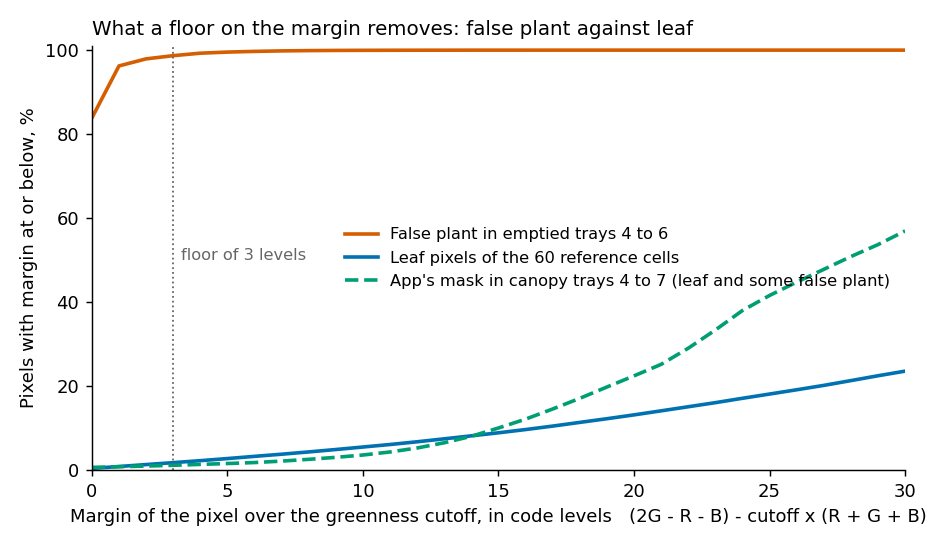
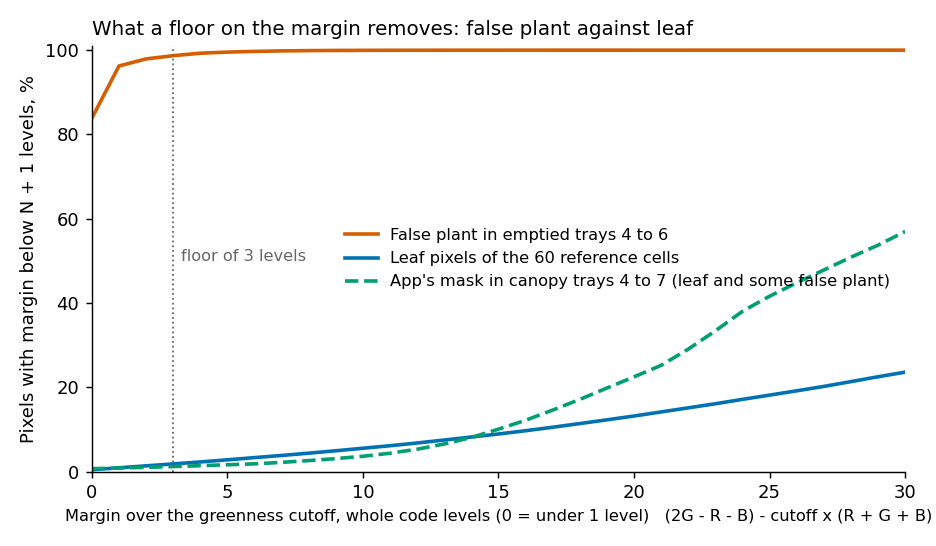
Log 46: corrections from review (canopy range, margin binning, rule A loss, counts, gain, scripts) (#497)

diff --git a/experiments/497-dark-pots/code/analyze.py b/experiments/497-dark-pots/code/analyze.py
@@ -55,7 +55,26 @@ def table(form):
                             ref_iou=iou, ref_ratio=pool, sigma_ref_median=st.median(float(x["sigma_b"]) for x in rr)))
     return out
 
+def ref_groups():
+    """Mean IoU and pooled area ratio of the reference cells by group (all 60, the 38 corrected by Aaron, 30
+    production, 30 development), with no rule, floor N = 1 to 5 and k = 1 to 3, rule B. Writes data/ref_iou_by_group.csv."""
+    ti = {r["id"]: r for r in csv.DictReader(open(TRUTH))}
+    ref = list(csv.DictReader(open(D + "/sweep_ref_B.csv")))
+    groups = {"all 60": lambda x: True, "38 corrected by Aaron": lambda x: ti[x["id"]]["truth_source"].startswith("corrected"),
+              "30 production": lambda x: x["rig"] == "prod", "30 development": lambda x: x["rig"] == "dev"}
+    out = []
+    for g, f in groups.items():
+        for m, lev in [("app", "-")] + [("c", str(i)) for i in range(1, 6)] + [("b", str(i)) for i in range(1, 4)]:
+            rr = [x for x in ref if x["method"] == m and x["level"] == lev and f(x)]
+            nz = [x for x in rr if int(x["truth_px"])]
+            out.append(dict(group=g, method=m, level=lev, cells=len(rr), mean_iou=round(st.mean(float(x["iou"]) for x in rr), 4),
+                            area_ratio=round(sum(int(x["px"]) for x in nz) / sum(int(x["truth_px"]) for x in nz), 3)))
+    with open(D + "/ref_iou_by_group.csv", "w", newline="") as fh:
+        w = csv.DictWriter(fh, fieldnames=list(out[0])); w.writeheader(); w.writerows(out)
+
+
 if __name__ == "__main__":
+    ref_groups()
     allrows = []
     for form in "AB":
         t = table(form); allrows += t

diff --git a/experiments/497-dark-pots/code/plots.py b/experiments/497-dark-pots/code/plots.py
@@ -20,8 +20,8 @@ for g, (lab, col, ls) in names.items():
     tot = sum(h[g].values()); y = [100 * sum(v for k, v in h[g].items() if k <= x) / tot for x in xs]
     ax.plot(xs, y, color=col, ls=ls, lw=2, label=lab)
 ax.axvline(3, color=GREY, lw=1, ls=":"); ax.text(3.3, 50, "floor of 3 levels", color=GREY, fontsize=9)
-ax.set_xlabel("Margin of the pixel over the greenness cutoff, in code levels   (2G - R - B) - cutoff x (R + G + B)")
-ax.set_ylabel("Pixels with margin at or below, %"); ax.set_ylim(0, 101); ax.set_xlim(0, 30)
+ax.set_xlabel("Margin over the greenness cutoff, whole code levels (0 = under 1 level)   (2G - R - B) - cutoff x (R + G + B)", fontsize=9)
+ax.set_ylabel("Pixels with margin below N + 1 levels, %"); ax.set_ylim(0, 101); ax.set_xlim(0, 30)
 ax.legend(frameon=False, loc="center right", fontsize=9)
 ax.set_title("What a floor on the margin removes: false plant against leaf", loc="left", fontsize=11)
 fig.tight_layout(); fig.savefig(f"{OUT}/margin-cdf.png", dpi=130); plt.close(fig)

diff --git a/experiments/497-dark-pots/code/rule.py b/experiments/497-dark-pots/code/rule.py
@@ -1,7 +1,9 @@
 """Noise-aware rule for grow from leaf cores (metrology log 46, issue #497).
 
 An experiment-side copy of `segmentation.grow_from_cores` with one change: a pixel is a core, and
-is grown into, only if its green exceeds its red by more than `thr` code levels. The soil level and
+is grown into, only if it clears a margin of `thr` code levels. Form "A": its green exceeds its red by
+more than `thr` (`G - R > thr`). Form "B": its greenness numerator clears the cutoff by more than `thr`
+(`(2G - R - B) - cutoff * (R + G + B) > thr`, the core cutoff on cores, the lower cutoff on growth). The soil level and
 lower cutoff are worked out exactly as the app does (the rule does not touch them). With
 `thr=None` the copy gives the app's own mask; `check_copy` shows that on a box.
 Imports the app, never the reverse.

diff --git a/experiments/497-dark-pots/code/dev_rect.py b/experiments/497-dark-pots/code/dev_rect.py
@@ -1,7 +1,7 @@
 """The rule on development photos (JPEG 85, 4:4:4; young seedlings on soil plugs), no tray outlines
 (npec-rig-01 was not asked for any): two fixed rectangles over two trays, whole rectangle as the tray,
 no tag cut-out. Share of the app's mask the rule removes (form B, floor of N levels, and k x sigma_b),
-and the number of mask pixels (log 46.6). Writes data/dev_rect.csv."""
+and the number of mask pixels (log 46.4). Writes data/dev_rect.csv."""
 import csv, sys
 import numpy as np
 sys.path.insert(0, __file__.rsplit("/", 1)[0])

diff --git a/experiments/497-dark-pots/code/target_zone.py b/experiments/497-dark-pots/code/target_zone.py
@@ -1,7 +1,7 @@
 """The green target on tray 10, measured alone (log 46). In the app's mask of each photo, the target is
 what survives an opening with a 201 px square (so the patches of false plant in the dark cells beside
 it, which touch it, are not part of it); the zone is that, widened by 15 px. For each level, the mask
-pixels inside the zone, against the app's. Writes data/target_zone.csv."""
+pixels inside the zone, against the app's. Writes data/target_zone_{FORM}.csv."""
 import csv, glob, json, os, sys
 import cv2
 import numpy as np

diff --git a/experiments/497-dark-pots/code/cell_ratio_tables.py b/experiments/497-dark-pots/code/cell_ratio_tables.py
@@ -15,7 +15,7 @@ for k, v in groups.items():
     print(k, len(v), "cells; with grown>0:", sum(1 for x in v if x["grown"] > 0), "| ratio", pct(r) if r else "-", "| fixed", pct([x["fixed"] for x in v]), "| grown", pct([x["grown"] for x in v]))
 print()
 print("flagged = grown > R x fixed AND grown - fixed >= A mm2")
-for A in (0, 20, 50):
+for A in (0, 20, 50, 100):
     for R in (2, 2.5, 3, 5):
         out = []
         for k, v in groups.items():

diff --git a/docs/metrology-log.md b/docs/metrology-log.md
@@ -11289,7 +11289,7 @@ the tag square is taken from cell A1's corners shrunk from the cell (about 59 mm
 | Experiment 18, emptied trays | 23 Nov 11:00, 12:00, 13:00, 14:00 UTC (4 photos; tray 4 emptied about 11:00, tray 5 about 13:00, tray 6 about 14:00) | trays 4 to 6 once empty (the app's fixed cutoff reads 6 to 54 mm²) |
 | Experiment 18, canopy | 18 Nov 13:00; 20 Nov 13:00, 20:00; 22 Nov 09:00, 13:00, 20:00; 23 Nov 09:00 (7 photos) | trays 4 to 7 with plants (fixed cutoff 7,100 to 14,200 mm²) |
 | Experiment 18, green target | the same 11 photos | tray 10 |
-| Experiment 20 | 24 Nov 08:09, 08:34 (light still changing), 09:04, 09:29, 09:44, 09:59 | tray 10: green target, tag sheet, empty cells |
+| Experiment 20 | 24 Nov 08:09, 08:34 (light still changing, so not counted by the app), 09:04, 09:29, 09:44, 09:59; the sweeps use all 6, the cell readings of 46.8 only the 4 counted | tray 10: green target, tag sheet, empty cells |
 | 60 reference cells (section 33) | the lossless crops with Aaron's truth masks | 30 production, 30 development; the lower cutoff given as the draft's (the whole tray's, from the manifest) |
 | Development, experiment 4 | 23 Nov 12:00 and 20:00, 24 Nov 08:05 (gain 1.5), 10:00; lights off 24 Nov 05:00 (gain 4.0) | two fixed rectangles over two trays of seedlings on soil plugs |
 | Lights-off, experiment 18 | 24 Nov 03:00 and 07:00 | the outlines of trays 4 to 6 as at 23 Nov 14:00 |
@@ -11303,8 +11303,8 @@ experiment 18 left the table on 16 November and have no pots left to read.
 On the 60 reference cells the mean IoU is 0.926 with no rule, **0.551 at `thr = 0`**, 0.505 at 2, 0.449 at
 4, and 0.214 at 12 (method (c)); method (b) is lower still. Rule A leaves out every pixel the lower
 cutoff admits with green not above red (leaf edges, grey pixels joined to a leaf, shaded leaf) and the
-reference masks contain many of them. It does cut the emptied trays to 9 mm² at 2 levels. It fails the
-reference pass number by 0.32 at the smallest value and is not considered further; the numbers are in
+reference masks contain many of them. It does cut the emptied trays to 9 mm² at 2 levels. It loses
+0.375 of IoU on the same cells (0.926 to 0.551) against the 0.005 allowed, and is not considered further; the numbers are in
 `data/summary_levels.csv` (form A).
 
 ### 46.3 Rule B: emptied trays, empty cells, the target
@@ -11325,16 +11325,15 @@ false-plant pixels left; the app's mask has 286,088 px, 11,789 mm², on tray 4 a
 (The tray 10 column covers both experiments' photos: patches in the dark cells that hold no pot or that sit
 beside the target. The target's change is measured on the target alone: what survives an opening of 201 px
 of the app's mask, widened by 15 px, so the patches in the dark cells that touch it are not counted;
-`code/target_zone.py`. With the rule off the target's zone holds 565,000 to 595,000 px.) Method (b), k
+`code/target_zone.py`. With the rule off the target's zone holds 565,000 to 573,000 px.) Method (b), k
 times the photo's own noise: **k = 3 gives 58.8 mm² and 0.91% left** (just inside 60 mm² and 1%); k = 2
 gives 136 mm² and 1.7%, k = 1 gives 1,135 mm² and 10.5%.
 
 *The false plant at a floor of 3.* What it removes is picture 46a, picture 46b and the table above: in
 the emptied tray 4 at 13:00 the app counted 286,088 px and the floor of 3 leaves 1,026 px (42 mm²;
-`figures/46/tray4-emptied-2026-11-23T1300.jpg`). The pixels it counts as plant have a margin of 0 or
-less in 83.8% of the cases (pure black pixels have greenness exactly 0, which is above the lower cutoff,
-and no margin to give), at most 3 levels in 98.7%, at most 8 in 99.9%
-(`figures/46/margin-cdf.png`).
+`figures/46/tray4-emptied-2026-11-23T1300.jpg`). The pixels it counts as plant have a margin of
+under 1 level in 83.8% of the cases, under 4 levels in 98.7% and under 9 in 99.9% (margins are floored to
+whole levels before they are counted; `figures/46/margin-cdf.png`).
 
 ### 46.4 Rule B: the leaves
 
@@ -11347,7 +11346,7 @@ and no margin to give), at most 3 levels in 98.7%, at most 8 in 99.9%
 | 30 production | 0.899 / 0.988 | 0.860 / 0.950 | 0.847 / 0.936 | 0.833 / 0.922 | 0.818 / 0.907 | 0.804 / 0.895 | 0.812 / 0.902 | 0.707 / 0.823 | 0.555 / 0.702 |
 | 30 development | 0.954 / 1.048 | 0.951 / 1.038 | 0.947 / 1.029 | 0.943 / 1.019 | 0.939 / 1.011 | 0.934 / 1.003 | 0.923 / 0.997 | 0.863 / 0.952 | 0.771 / 0.895 |
 
-The mean IoU of 0.926 with no rule is above section 34's 0.874 to 0.879, because these crops are scored with
+(The rows by group come from `code/analyze.py`, written to `data/ref_iou_by_group.csv`.) The mean IoU of 0.926 with no rule is above section 34's 0.874 to 0.879, because these crops are scored with
 the draft's own lower cutoff and 21 of the 60 truth masks are accepted drafts (section 33); the loss is
 therefore taken against the same cells without the rule. **Method (c) loses 0.021 at N = 1 and 0.038 at N = 3
 (0.066 on production's 30 cells), against the 0.005 allowed: it fails at every N from 1.** (Held to an
@@ -11364,7 +11363,7 @@ a plant with dark leaves, of which the floor of 3 removes 11% to 47% of the pixe
 2,536 of 4,961 to 10,562 px). So the upper bound mixes false plant, correctly removed, with a real cost on dark leaves that
 no hand outline measures. On development's seedlings (JPEG 85; `data/dev_rect.csv`) a floor of 3 removes 6.5%
 to 8.3% of the app's mask of one tray (left, 9,200 to 14,800 px) and 1.6% to 2.6% of another (top right,
-99,000 to 112,000 px), the same on the photo at gain 1.5 as on the two at gain 1.0.
+99,000 to 112,000 px), 6.5% and 1.6% on the one photo at gain 1.5 against 7.8% to 8.3% and 2.1% to 2.6% on the two at gain 1.0 (the three photos differ in more than gain, so one photo at 1.5 shows nothing about gain).
 
 ### 46.5 Noise: how it moves with the photo, the gain and the settings
 
@@ -11380,7 +11379,7 @@ of `2G - R - B` (`figures/46/noise-estimate-by-condition.png`):
 | Reference crops, development, 30 | 4.7 to 9.3 |
 
 The estimate follows what is in the trays, not the camera: the same camera at the same gain 1.0 and the same
-JPEG setting gives 0.9 over empty pots and 3.1 over canopy, a factor of 3.4. That is the circularity: the darkest
+JPEG setting gives 0.9 over empty pots and 3.1 over canopy, a factor of 3.4 (about 2.9 to 4.8 from the ranges above, 0.82 to 0.95 against 2.75 to 3.96). That is the circularity: the darkest
 tenth of an emptied tray is the pots themselves, whose noise is not the noise of a leaf's shade. With
 k = 3 the emptied trays are just inside the pass number (a floor of about 2.7 levels) while on canopy photos
 the same k is a floor of 8 to 12 levels.
@@ -11427,17 +11426,17 @@ whether to ask for a minimum area, are Aaron's decisions; none is proposed here.
 | False plant removed, emptied trays at most 60 mm², under 1% left | Yes from N = 2 | Yes from N = 3 (45 mm², 0.73%) | Yes only at k = 3 or more (58.8 mm², 0.91%) |
 | Experiment 20's empty cells about 0 | Yes from N = 2 | Yes from N = 3 (at most 34 mm²) | Yes from k = 3 |
 | Green target keeps its area | No (-0.6 to -0.3% at N = 2) | -0.7 to -0.4% at N = 3; no number was set | -1.2 to -0.4% at k = 3 |
-| 60 reference cells, IoU loss at most 0.005 (from 0.926) | **No: 0.55 at the smallest value** | **No: loses 0.021 at N = 1, 0.038 at N = 3** (0.066 on production's 30) | **No: loses 0.26 at k = 3** |
-| Canopy upper bound at most 1% on every photo | No | **No: tray 7 up to 2.6%, mostly cell C1's dark leaves and one dark pot** | **No** |
-| One factor across all conditions | No | No | **No: the noise estimate itself moves by 3.4** |
+| 60 reference cells, IoU loss at most 0.005 (from 0.926) | **No: loses 0.375 at the smallest value** | **No: loses 0.021 at N = 1, 0.038 at N = 3** (0.066 on production's 30) | **No: loses 0.26 at k = 3** |
+| Canopy upper bound at most 1% on every photo | No | **No: tray 7 loses 0.18% to 6.63% (the 6.63% is 97% a black pot in cell D5; without that photo, 0.18% to 2.6%, mostly cell C1's dark leaves)** | **No** |
+| One factor across all conditions | No | No | **No: the noise estimate itself moves by 3.4 (2.9 to 4.8)** |
 
-- **Method (b) fails the question asked.** Its noise estimate is 3.4 times higher on canopy photos than
+- **Method (b) fails the question asked.** Its noise estimate is 3.4 times higher (2.9 to 4.8) on canopy photos than
   on emptied-tray photos at the same gain, so k = 3 is a floor of 2.7 levels in one and 8 to 12 in the
   other; at k = 3 the reference cells' IoU is 0.66.
 - **Method (c), a floor of 3 or 4 code levels on the greenness margin, removes the false plant but at a
   cost on real leaves.** It removes 99.3% to 99.7% of the false-plant pixels and takes the empty cells and the
   dark pots to 45 mm² or less. The cost is on dark leaves and seedlings: 0.038 of IoU on the 60 cells (0.066
-  on production's 30), 11% to 47% of one dark-leaved plant, 1% to 2.6% of a canopy tray, 6.5% to 8.3% of a
+  on production's 30), 11% to 47% of one dark-leaved plant, 0.18% to 6.63% of tray 7's mask (0.07% to 0.5% for trays 4 to 6; the 6.63% is a black pot, and without that photo 0.18% to 2.6%), 6.5% to 8.3% of a
   tray of small seedlings, and 0.4% to 0.7% of the green target's area.
 - **Recommendation and decision (Aaron, 2026-11-24): no pixel rule.** Empty pots and empty cells are of no
   interest to researchers, who follow plants by tray and cell, and a floor would shrink real dark-leaved
@@ -11457,7 +11456,7 @@ whether to ask for a minimum area, are Aaron's decisions; none is proposed here.
 **What is read.** The two areas the app already stores for each cell: the fixed green cutoff's `area_mm2`
 and grow from leaf cores' `grown_area_mm2` (a missing area counts as 0). Production's 183 hourly readings of
 16 to 23 November, counted photos only (`~/temp.nobackup/rig-copies/ac-testing/review-434/readings/`), and the
-6 photos of experiment 20 (`data/api/`); tag cells and cells whose status is "leaves over other cells" (the
+4 counted photos of experiment 20 (`data/api/`; its 08:09 and 08:34 photos are marked "light changing" and are not counted, so the 40 readings are 4 photos of 10 cells); tag cells and cells whose status is "leaves over other cells" (the
 green target's cells) are left out. Development has no stored cell readings in what was copied, so
 development's seedlings are read from the 60 reference crops (section 33), whose two areas were recomputed
 with the app's green threshold and grow from leaf cores (the draft's lower cutoff); a crop holds the cell with a 40
@@ -11494,10 +11493,10 @@ px margin, so a neighbour's leaf can count. `code/cell_ratio.py`, `code/cell_rat
 **Does one ratio separate the plants from the empty cells?** Not by itself. (a1) and (c) mostly sit below 2
 (95th percentile 1.9 and 2.0), and (b)'s false-plant cells sit above 9. But production's young plants (a2) have
 ratios of 1.3 to 677, because the fixed cutoff reads a young dark leaf as 0 to 30 mm² while grow from leaf
-cores reads 26 to 184: a cell of a few mm² fixed and 26 to 50 mm² grown is a seedling there, and looks like an
+cores reads 26 to 274: a cell of a few mm² fixed and 26 to 50 mm² grown is a seedling there, and looks like an
 empty cell with a little false plant. The groups differ more in the size of the excess: the false-plant cells
 have an excess of 22 to 1,660 mm² (median 831; 28 of 33 above 200), while production's young plants (a2) have 26 to
-184 mm² grown and development's seedlings (c) 133 to 460 mm² grown for sizes 1 and 2 with a ratio of at most 2.3.
+274 mm² grown and development's seedlings (c) 133 to 460 mm² grown for sizes 1 and 2 with a ratio of at most 2.3.
 Two false-plant cells (23 and 24 mm²) are as small as a production seedling.
 
 **Cells flagged by a candidate** (grown above R times fixed *and* grown minus fixed at least A mm²; with fixed
@@ -11517,7 +11516,7 @@ Two false-plant cells (23 and 24 mm²) are as small as a production seedling.
 | 100 | 3 | 61 | 1 | 1 | 30 | 98% | 0 |
 | 100 | 5 | 15 | 0 | 0 | 30 | 98% | 0 |
 
-(All candidates of R = 2, 2.5, 3, 5 and A = 0, 20, 50, 100 are in `code/cell_ratio_tables.py`'s output.)
+(All candidates of R = 2, 2.5, 3, 5 and A = 0, 20, 50, 100, for every group including experiment 20, are in `code/cell_ratio_tables.py`'s output.)
 
 - **A minimum on the fixed area would exclude the cells to flag:** the false-plant cells' fixed area is
   at most 16 mm² (median 2.6; 7 of 33 have 5 mm² or more, 2 have 10 mm² or more), so a minimum of 5 mm² would
@@ -11539,7 +11538,7 @@ Two false-plant cells (23 and 24 mm²) are as small as a production seedling.
 times its fixed-cutoff area *and* the grown area exceeds the fixed area by at least 100 mm². This is a decision
 made on the numbers above, not a measurement. On the data it flags 30 of the 33 false-plant cells (98% of the
 emptied trays' false grown area), 15 of the 7,989 plant-cell readings (0.2%), 0 of the 26 young production
-reference plants, 0 of the 27 development seedlings and 0 of experiment 20's 40 empty-cell readings. It rests on
+reference plants, 0 of the 27 development seedlings and 0 of experiment 20's 40 empty-cell readings (4 counted photos). Among the plant-tray cells with a fixed area under 20 mm² (1,462 readings, not in the 7,989) it flags 5, all with a fixed area of 1 to 20 mm²; they were not looked at one by one (a black pot such as tray 7 cell D5 is one possible kind). It rests on
 one harvest on one rig (production's trays 4 to 6, 23 November) and on the reference crops for young plants and
 seedlings; it is not shown for other pots, soils, plant types or rigs.
 

diff --git a/docs/measurement-trust.md b/docs/measurement-trust.md
@@ -522,7 +522,7 @@ metrology log backs it.
   No pixel rule is to be coded: a fixed brightness limit depends on the light, a floor on how far a
   pixel's greenness clears its cutoff (3 levels) took 99.3% of the false plant but cost 0.038 of IoU on the
   60 reference cells against 0.005 allowed (0.066 on production's 30) and 11% to 47% of one dark-leaved
-  plant, and a floor scaled by the photo's own noise fails because that estimate is 3.4 times higher over
+  plant, and a floor scaled by the photo's own noise fails because that estimate is 3.4 times higher (2.9 to 4.8) over
   canopy than over pots at the same gain. Dark pots are handled by flagging, not correcting (Aaron,
   2026-11-24): a cell whose grown area is much larger than its fixed-cutoff area is marked as probably
   empty, and the tray keeps its total and adds the flagged cells and their area (#484). On ordinary
